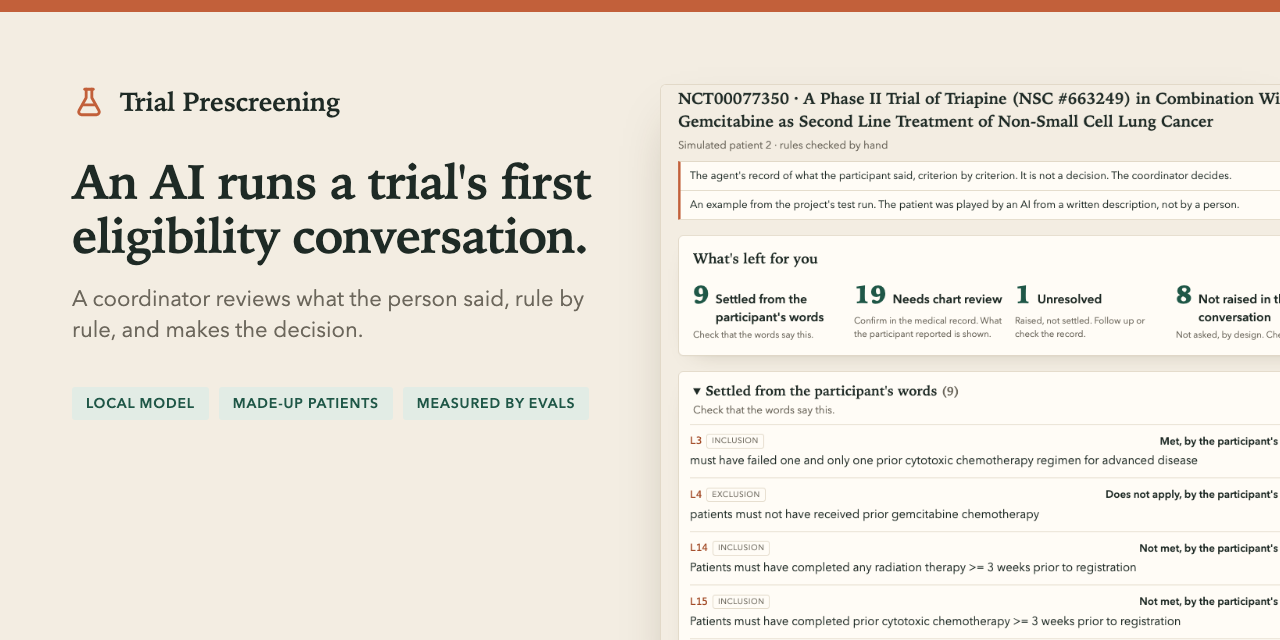
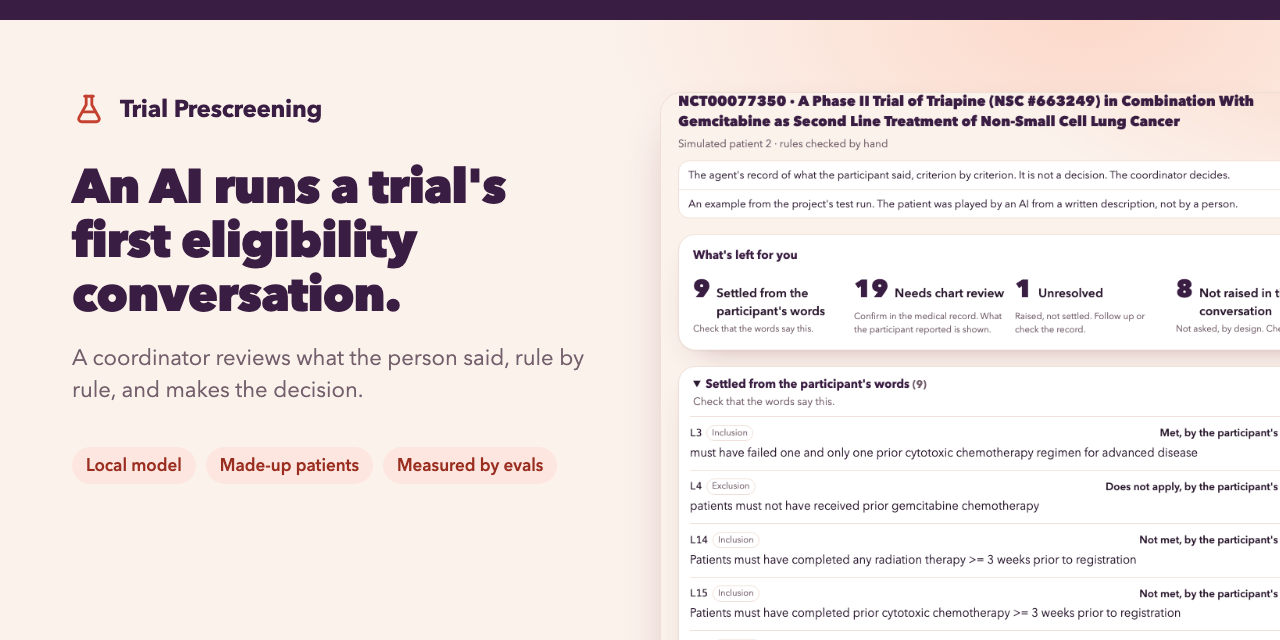
0019 step 7: images, demo and preview card retaken in Coral & Plum

diff --git a/work/0019-coral-and-plum/plan.md b/work/0019-coral-and-plum/plan.md
@@ -208,6 +208,14 @@ Merged as PR #1 (`d28377d`).
   - Looked at and passing: coral "Start screening" beside crimson "Remove…" reads as two colours (filled against outlined, warm against cool); the plum band holds its edge on the dark page; all four nav links measure on one line at 390 px in both modes; no serif, terracotta or capitals left from 0018; review rows differ only in their own words.
   - No fixes were needed.
 
+- **Step 6.** `npm run test:e2e`: 11 passed, 4 skipped (the capture specs), 17.2 s. No spec changed.
+- **Step 7.** oMLX was healthy with the model already loaded (ceiling 46.9 GB). With the owner's go ("go", after the gate question that named it), `OMLX_API_KEY` was exported into the capture app's process from the old clone's `.env`, as in 0018: no file written, value never printed. The app reported the local model, no hosted provider, ready.
+  - `npm run screenshots`: 4 passed, 2.0 min.
+  - `npm run demo`: 4.98 MB at 10 fps, 720 px (0018's fallback), just under the cap. 9.0 MB at 960 px; the plum band and glow cost more than 0018's page did.
+  - Looked at: all five README images, the preview card (its crop of `review.png` reads), and nine frames of the GIF. The model's words are the real agent's from that run.
+
 ## Gate record
+
+- **Passed, 2026-10.** The owner looked at the 46 headless screenshots (light and dark, 1280 and 390 px) and the contrast table, and said "go".
 
 ## Review passes
